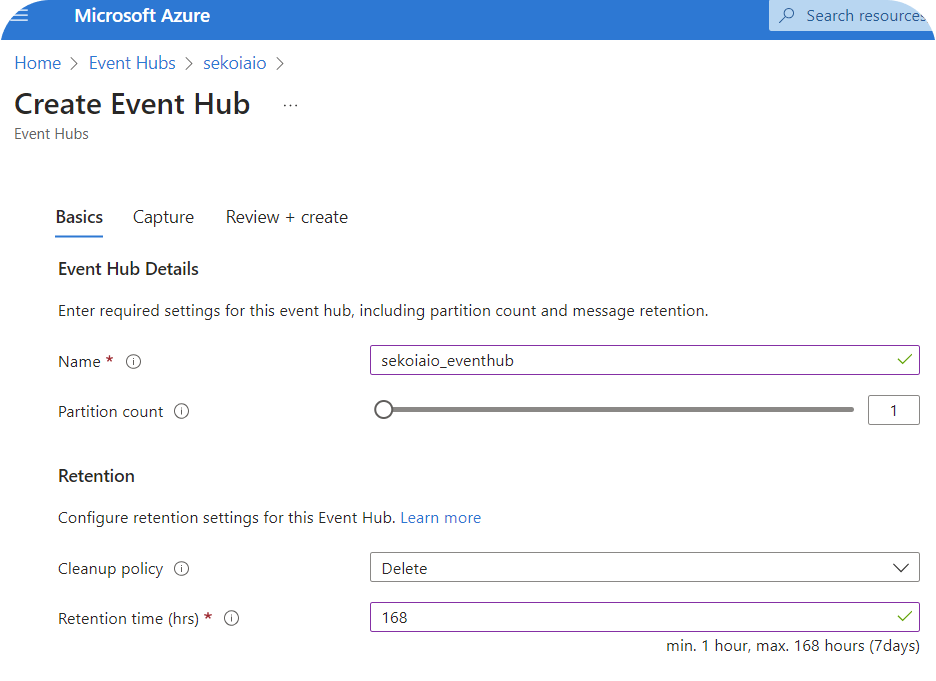
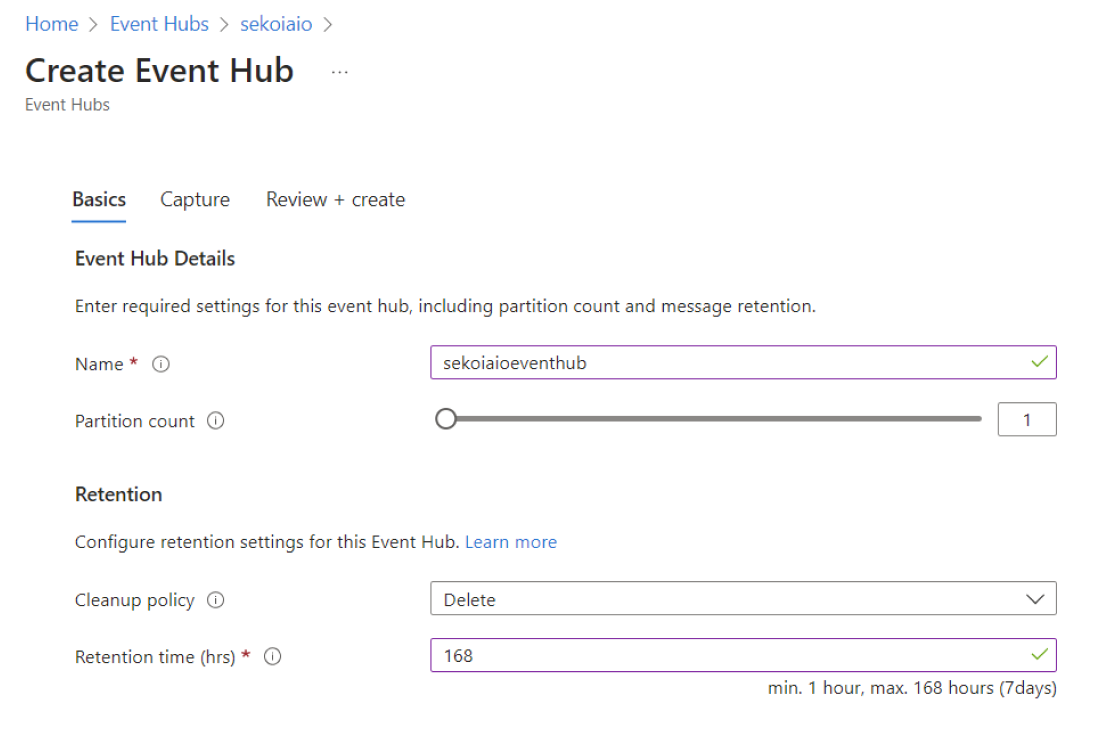
wip : improve doc event hub

diff --git a/_shared_content/operations_center/integrations/event_hub.md b/_shared_content/operations_center/integrations/event_hub.md
@@ -15,7 +15,7 @@ Some resources created during this procedure are needed to connect Sekoia.io to 
 | hub_name | **To be completed at step 3** | Name of the Event Hub | sekoia_event_hub |
 | hub_connection_string | **To be completed at step 5** | Connection string–primary key | Endpoint=sb://company-eventhub.servicebus.windows.net/;SharedAccessKeyName=sekoiaio;SharedAccessKey=XXXXXX;EntityPath=sekoia_event_hub |
 | hub_consumer_group | **To be completed at step 6** | Name of the comsumer group | consumergroup_sekoiaio |
-| storage_container_name | **To be completed at step 7** | Name of your container | sekoia_event_hub |
+| storage_container_name | **To be completed at step 7** | Name of your container (same as the Event Hub name) | sekoia_event_hub |
 | storage_connection_string | **To be completed at step 8** | Storage connection string | DefaultEndpointsProtocol=https;AccountName=sekoiaiocheckpoint;AccountKey=XXXXX |
 
 As a prerequisite, you need to choose an existing Resource group, or create a new one (e.g. `company-resource-group`).
